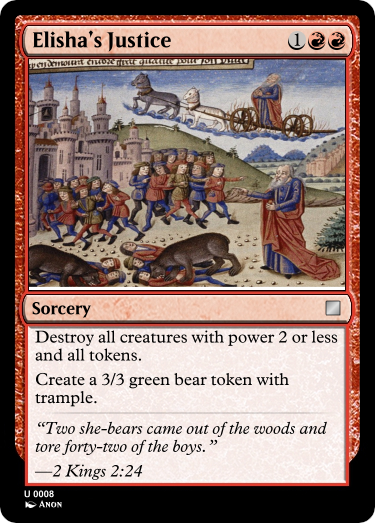
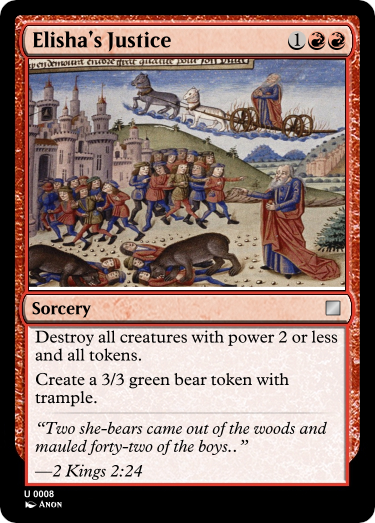
languate update

Changed region(s): [[0.088, 0.826, 0.616, 0.8872], [0.6453, 0.826, 0.6747, 0.8566]]

diff --git a/README.md b/README.md
@@ -2,7 +2,7 @@
 * Magic: the Gathering cards based upon the Bible.
 * We do not endorse, intentionally demean, nor otherwise express an opinion towards any religion.
 * These cards are a meant as a respectful way to engage the Bible as a historical and literary work.
-* __mtg-bible__ is unofficial Fan Content permitted under Wizards' [Fan Content Policy](https://company.wizards.com/en/legal/fancontentpolicy). This content is not approved nor endorsed by Wizards. Portions of the materials herein are property of Wizards of the Coast.
+* __mtg-bible__ is unofficial Fan Content permitted under Wizards' [Fan Content Policy](https://company.wizards.com/en/legal/fancontentpolicy). This content is neither approved nor endorsed by Wizards. Portions of the materials herein are property of Wizards of the Coast.
 
 # Usage
 * Install [Cockatrice](https://cockatrice.github.io/).
@@ -12,7 +12,7 @@
 ## db 
 * `01.cockatrice_db.xml`
 ## Card Sketches
-* `card_sketches.txt` describes whiteboarded cards envisioned in an ad-hoc, top-down style. The format is sufficient to communicate the nature and effects of each, and mimics WotC's release notes.
+* `card_sketches.txt` describes whiteboarded cards envisioned in an ad-hoc, top-down style. The format is sufficient to communicate the nature and effects of each, and mimics WotC's release notes.    
 ## Artwork
 ### Attribution
 Cards in the db have an `<imgsrc>` tag to record their origins.
@@ -108,7 +108,7 @@ Propose a framework for these cards to be become a proper set.
 # Translations
 The aim of this set is to contribute to Magic, not communicate theology.
 
-The primary author of this set references [RSVCE](https://www.biblegateway.com/versions/Revised-Standard-Version-Catholic-Edition-RSVCE-Bible/).
+The primary author of this set references [NRSVCE](https://www.biblegateway.com/versions/New-Revised-Standard-Version-Catholic-Edition-NRSVCE-Bible).
 
 ## Citations
  Chapter and Verse: `<chvs>`. This tag has no effect on gameplay.
